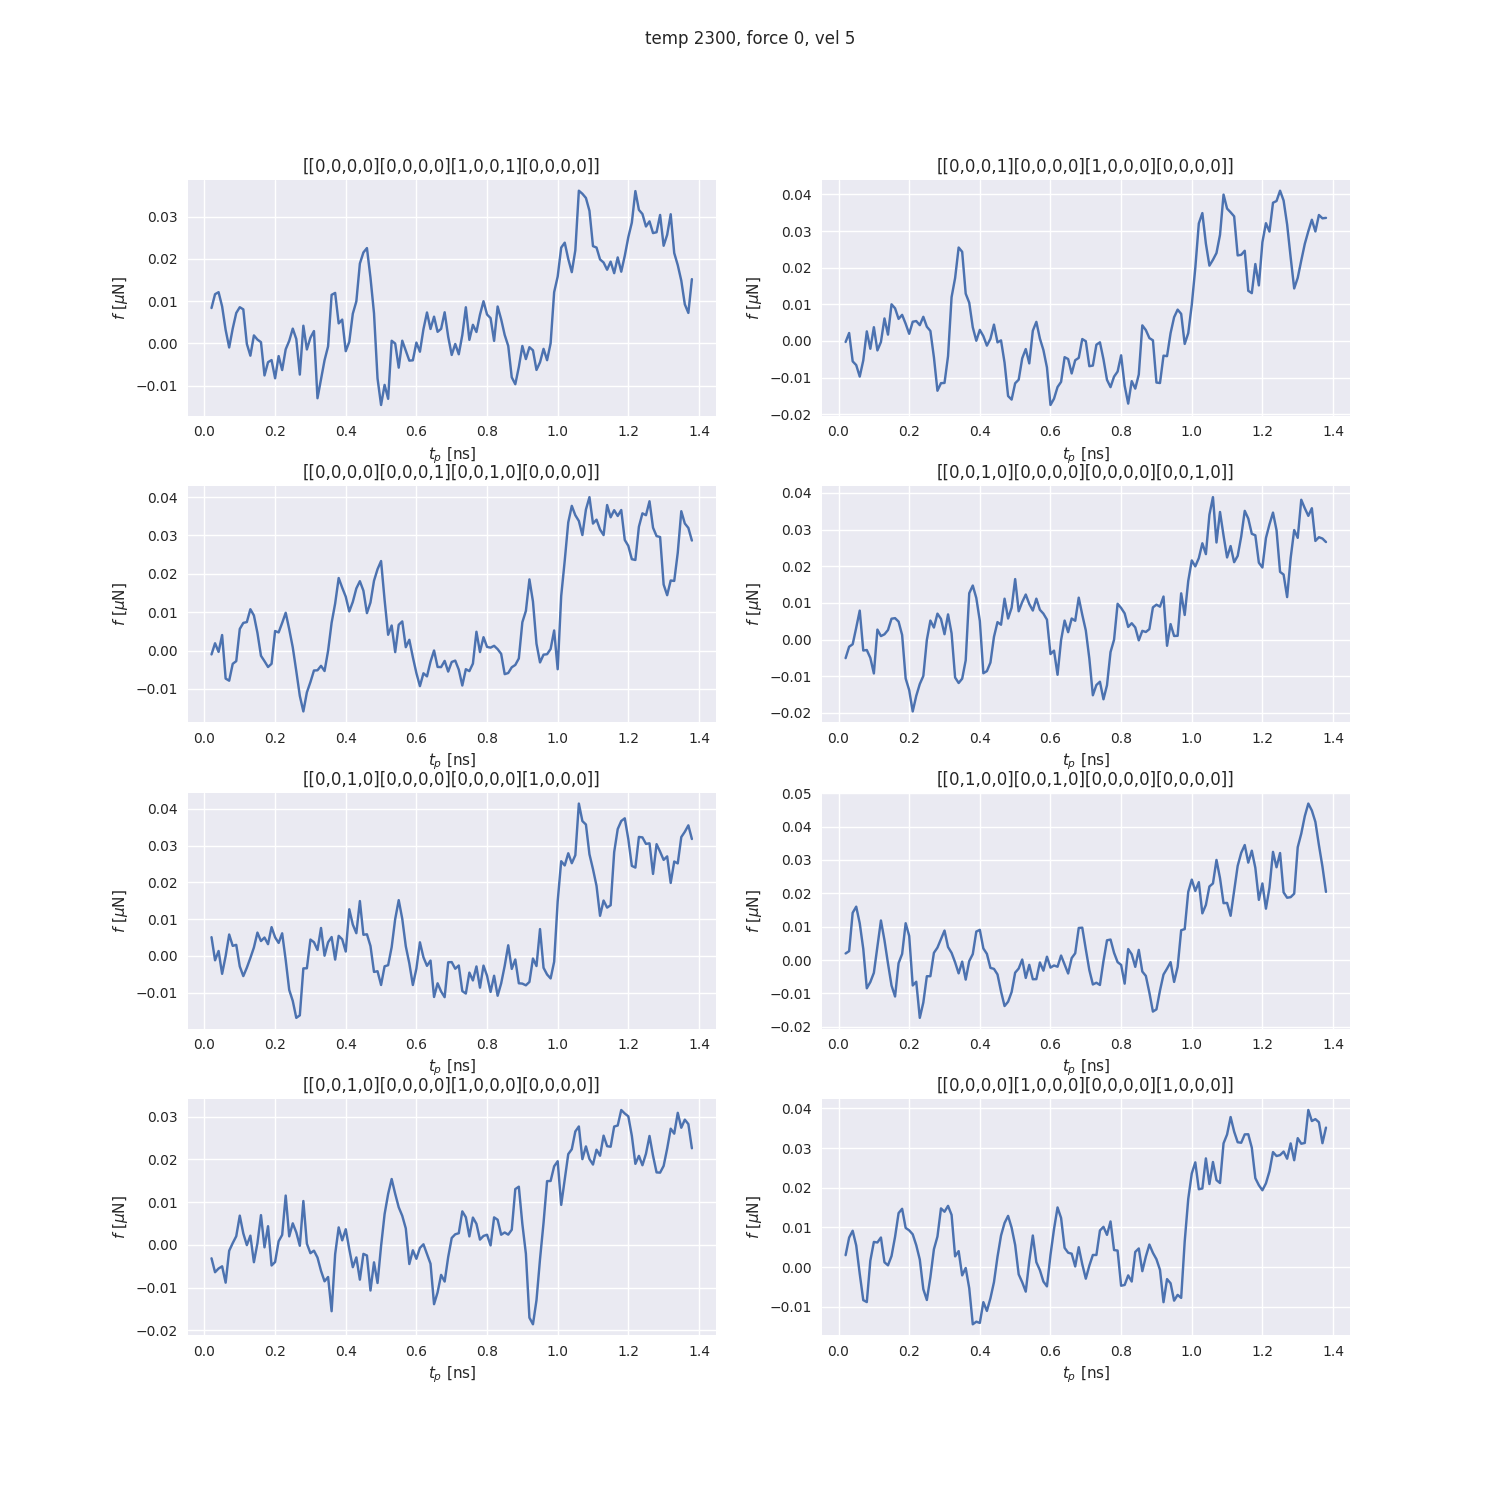
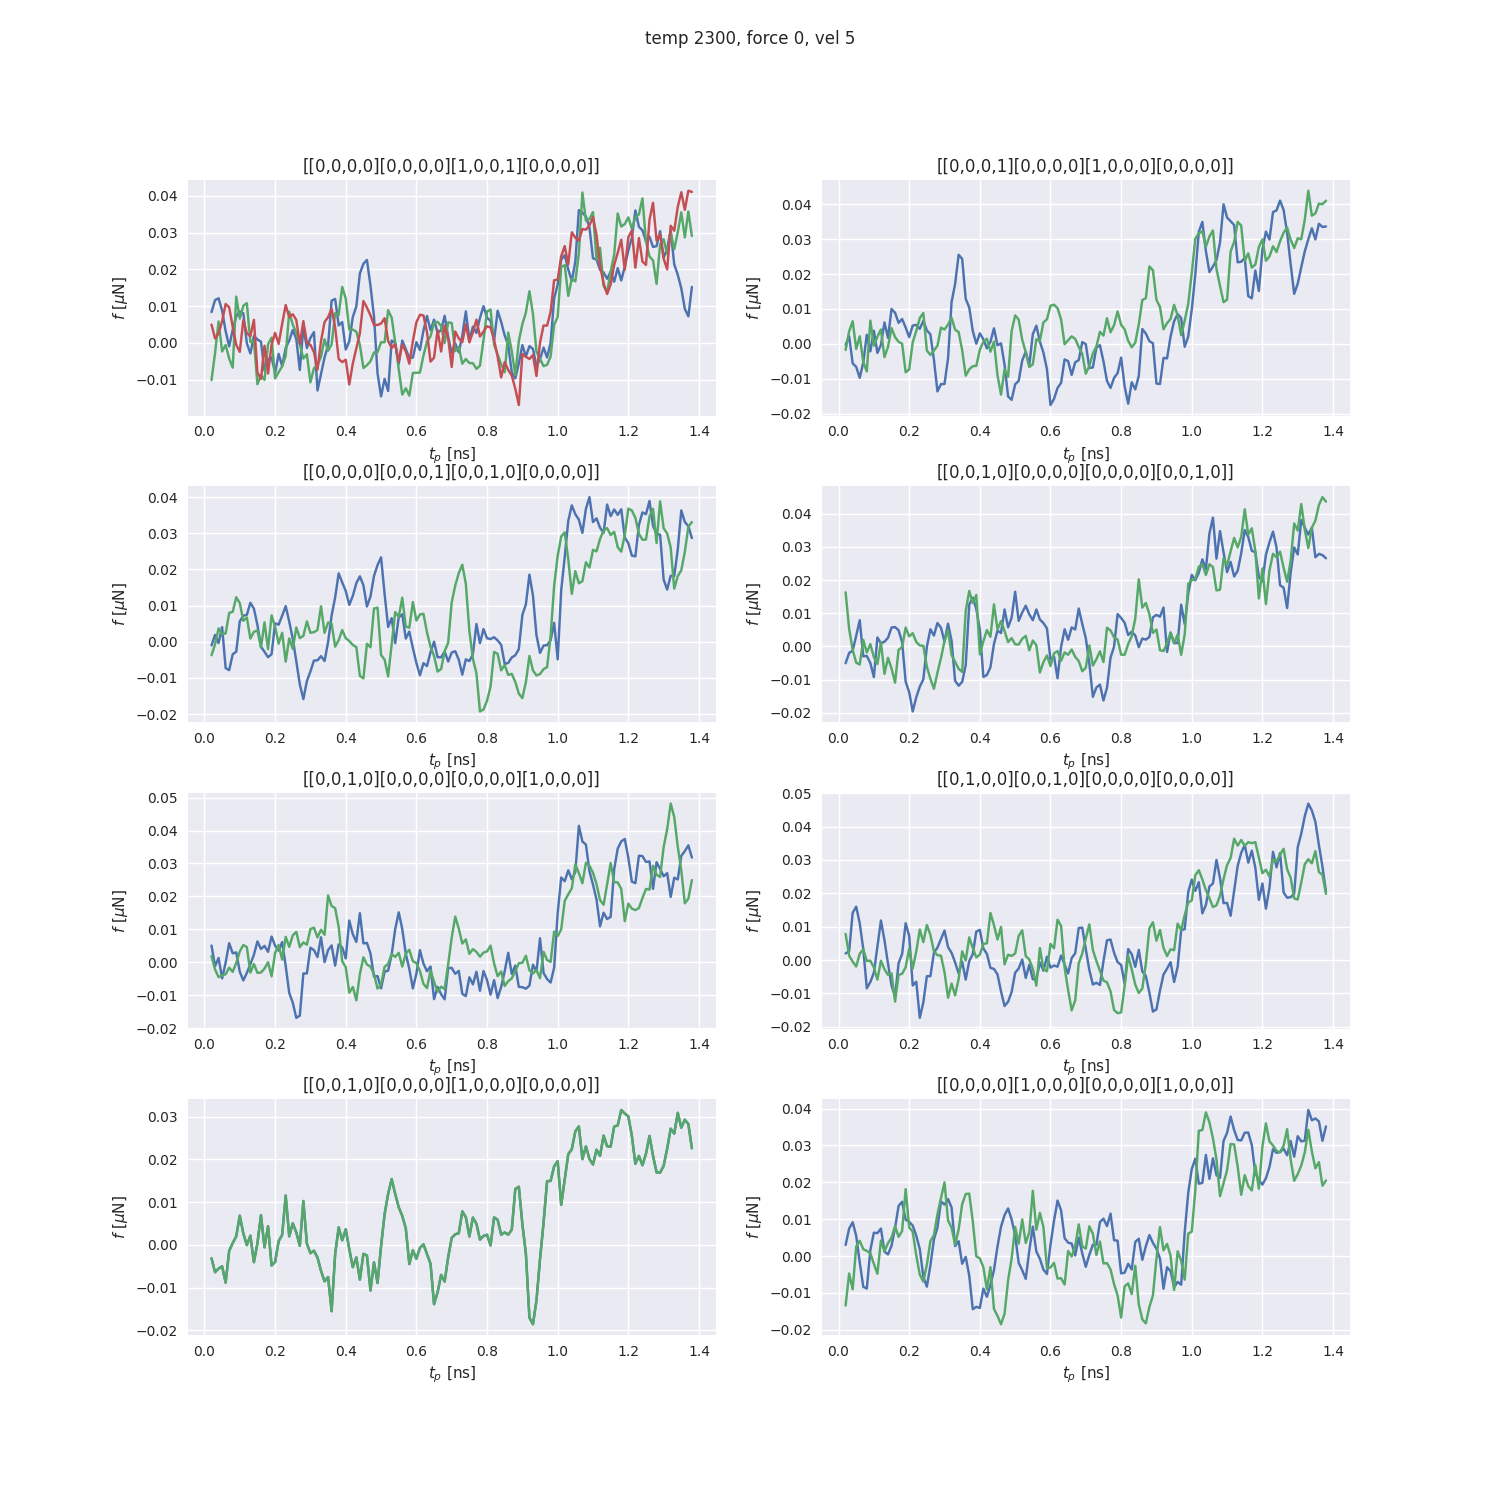
did a second run

diff --git a/python/plot/plot_load_curves.py b/python/plot/plot_load_curves.py
@@ -22,7 +22,7 @@ plt.style.use('seaborn')
 def load_displacement(temp, vel, force, orientation, grid, disp_template, initnum, seeds):
     disp_all = []
     for seed in seeds:
-        lc_files = template_lc.format(temp, vel, force, asperities, initnum, seed, grid[0], grid[1])
+        lc_files = disp_template.format(temp, vel, force, asperities, initnum, seed, grid[0], grid[1])
         print('disp_files ', disp_files)  
         files = glob(disp_files)
         print(files)
@@ -44,7 +44,7 @@ def load_load_curves(temp, vel, force, asperities, orientation, grid, template_l
         for seed in seeds: 
             print('seed: ',seed)
 
-            load_curve_files = template_lc.format(temp, vel, force, asperities, initnum, seed, grid[0], grid[1])
+            load_curve_files = template_lc.format(temp, vel, force, asperities, orientation, initnum, seed, grid[0], grid[1])
             print('load curve files: ', load_curve_files) 
             files = glob(load_curve_files)
             print('files : ', files)
@@ -53,7 +53,7 @@ def load_load_curves(temp, vel, force, asperities, orientation, grid, template_l
                 load_curves = loadtxt(_file)
                 load_curves_all.append(load_curves)
     else:
-        load_curve_files = template_lc.format(temp, vel, force, asperities, initnum, seeds, grid[0], grid[1])
+        load_curve_files = template_lc.format(temp, vel, force, asperities, orientation, initnum, seeds, grid[0], grid[1])
         files = glob(load_curve_files)
         assert files != []
         for _file in glob(load_curve_files):
@@ -75,7 +75,7 @@ def load_max_static(temp, vel, force, asperities, orientation, grid, template_lc
    
     if isinstance(seeds, tuple):
         for seed in seeds:
-            ms_files = template_ms.format(temp, vel, force, asperities, initnum, seed, grid[0], grid[1])
+            ms_files = template_ms.format(temp, vel, force, asperities, orientation, initnum, seed, grid[0], grid[1])
             files = glob(ms_files)
             # ms files: time [nS] max friction [mN] 
             assert files != []
@@ -85,7 +85,7 @@ def load_max_static(temp, vel, force, asperities, orientation, grid, template_lc
                 ms_all.append((time,ms))
         mean_static = mean(ms_all, axis = 0)
     else:
-        ms_files = template_ms.format(temp, vel, force, asperities, initnum, seeds, grid[0], grid[1])
+        ms_files = template_ms.format(temp, vel, force, asperities, orientation, initnum, seeds, grid[0], grid[1])
         files = glob(ms_files)
         # ms files: time [nS] max friction [mN] 
         assert files != []
@@ -391,21 +391,22 @@ def plot_production(temp, vel, force, uc, asperities, time, orientation, grid, e
     load_curve_dir = project_dir + 'txt/load_curves/production/'
     max_static_dir = project_dir + 'txt/max_static/production/'
 
-    template_lc = load_curve_dir + 'load_curves_temp{}_vel{}_force{}_asp{}_initnum{}_seed{}_errgrid{}_{}.txt'
-    template_ms = max_static_dir + 'max_static_temp{}_vel{}_force{}_asp{}_initnum{}_seed{}_errgrid{}_{}.txt'
+    template_lc = load_curve_dir + 'load_curves_temp{}_vel{}_force{}_asp{}_or{}_initnum{}_seed{}_errgrid{}_{}.txt'
+    template_ms = max_static_dir + 'max_static_temp{}_vel{}_force{}_asp{}_or{}_initnum{}_seed{}_errgrid{}_{}.txt'
 
     template_aux = project_dir + 'simulations/sys_asp{}_uc{}/production/sim_temp{}_force{}_asp{}_time{}_initnum{}_seed{}_errgrid4_4/system_asp{}_uc{}_initnum0_errgrid4_4_auxiliary.json'
 
     fig, axs = plt.subplots(4,2, figsize = (15,15))
     axs = axs.ravel()
     initseed = {0:(77222, 66232, 79443), 1:(29672, 40129), 2:(64364, 32077), 3:(33829, 84296),
-                4:(29082, 59000), 5:(16388, 65451), 6:(69759, 69759), 7:(65472, 30359, 62780)}
+                4:(29082, 59000), 5:(16388, 65451), 6:(69759, 69759), 7:(65472, 62780)}
 
     man_init = {0:'[[0,0,0,0][0,0,0,0][1,0,0,1][0,0,0,0]]', 1:'[[0,0,0,1][0,0,0,0][1,0,0,0][0,0,0,0]]',
                 2:'[[0,0,0,0][0,0,0,1][0,0,1,0][0,0,0,0]]', 3:'[[0,0,1,0][0,0,0,0][0,0,0,0][0,0,1,0]]',
                 4:'[[0,0,1,0][0,0,0,0][0,0,0,0][1,0,0,0]]', 5:'[[0,1,0,0][0,0,1,0][0,0,0,0][0,0,0,0]]',
                 6:'[[0,0,1,0][0,0,0,0][1,0,0,0][0,0,0,0]]', 7:'[[0,0,0,0][1,0,0,0][0,0,0,0][1,0,0,0]]'}
 
+    template_lc_allseed = load_curve_dir + 'load_curves_temp{}_vel{}_force{}_asp{}_or*_initnum{}_seed{}_errgrid{}_{}.txt'
     print(template_lc)
     for i, (initnum, seeds) in enumerate(initseed.items()):
         load_curves_all, load_curves_mean= load_load_curves(temp, vel, force, asperities, orientation,

diff --git a/python/post/get_load_curves.py b/python/post/get_load_curves.py
@@ -83,7 +83,7 @@ if __name__ == '__main__':
     #initnum = 0
     force = 0
     initseed = {0:(77222, 66232, 79443), 1:(29672, 40129), 2:(64364, 32077), 3:(33829, 84296), 
-                4:(29082, 59000), 5:(16388, 65451), 6:(69759, 69759), 7:(65472, 30359, 62780)}
+                4:(29082, 59000), 5:(16388, 65451), 6:(69759, 69759), 7:(65472, 62780)}
     #for force in [0.0001, 0.001, 0.01, 0]:
     for initnum, seed in initseed.items():
 
